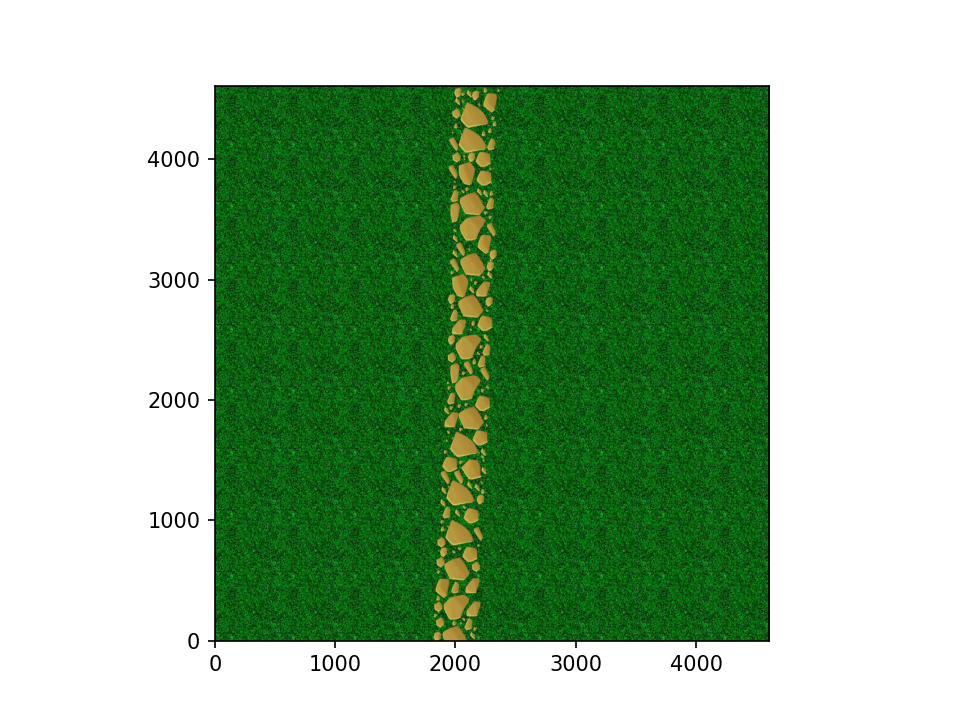
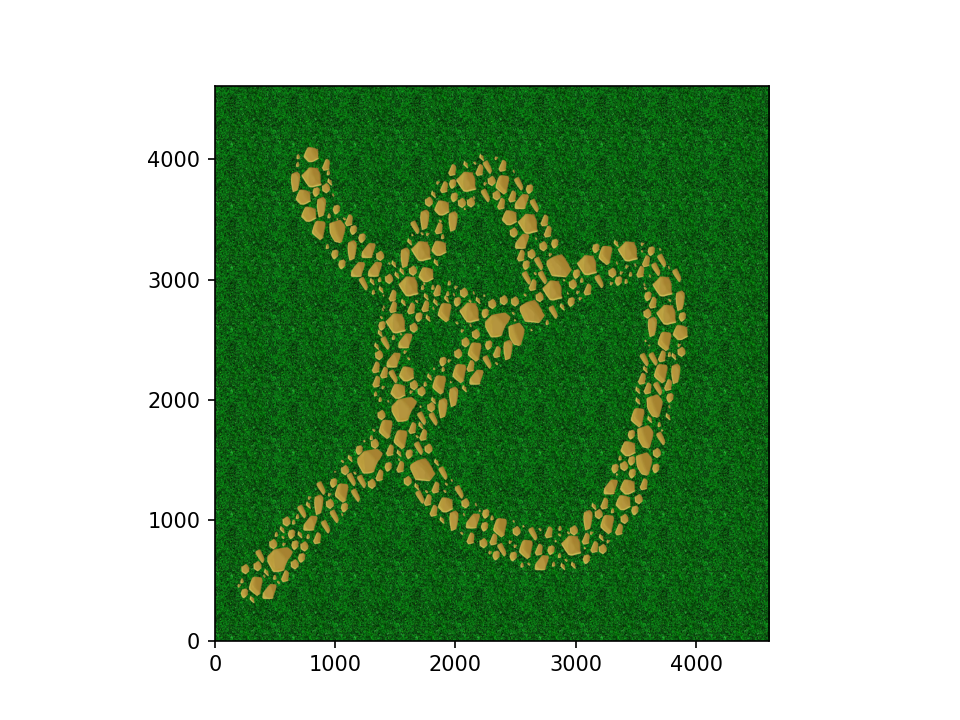
optimisation

Changed region(s): [[0.25, 0.1222, 0.7188, 0.8861]]

diff --git a/bin/plaquage/Interpolation.py b/bin/plaquage/Interpolation.py
@@ -2,9 +2,19 @@ import cv2
 import numpy as np
 import matplotlib.pyplot as plt
 from numpy.core.fromnumeric import shape 
-from scipy import interpolate,ndimage,sparse
+from scipy import interpolate,ndimage,sparse,stats
 
 def create_background(patch_background_elem,l,L):
+    """ Creer le background de taille l*L a partir du un patch de texture  
+
+    Args:
+        patch_background_elem (numpy.ndarray): patch de texture
+        l (int): taille en ligne
+        L (int): taille en colonne
+
+    Returns:
+        numpy.ndarray: l'environnement creer
+    """
     ###### Creation du background
     patch_colonne = np.copy(patch_background_elem)
     for i in range(L):
@@ -15,7 +25,18 @@ def create_background(patch_background_elem,l,L):
         environnement = np.concatenate((environnement,patch_colonne),axis=1)
     return environnement
 
-def selection_chemin(environnement,max_longeur_chemin):
+def selection_chemin(environnement,max_longeur_chemin=10):
+    """Selection interactif de points 
+
+    Args:
+        environnement (numpy.ndarray): background
+        max_longeur_chemin (int): taille maximal avant l'arret interactif
+
+    Returns:
+        List[Tuple[float,float]]: points-> points selectionner
+        Figure                  : fig -> figure 
+        SubplotBase             : ax -> ax de la figure 
+    """
     fig  = plt.figure(figsize=(13, 7), dpi=150)
     ax = plt.subplot(1,2,1)
     ax.set_title('Selection du chemin')
@@ -23,52 +44,81 @@ def selection_chemin(environnement,max_longeur_chemin):
     points = plt.ginput(max_longeur_chemin)   #Donnee Points
     return points,fig,ax
 
-def interpolation(points,nbPoint):
+def interpolation_Splines(points,nbPoint,k=2):
+    """Interpolation des points selon une Spline
+
+    Args:
+        points (List[tuple[float,float]]): List des points
+        nbPoint (int): nombre de points utilisé pour la spline
+        k (int) : ordre de la spline
+
+    Returns:
+        List[tuple[float,float]]: Points de la spline interpolé
+    """
     pointx = np.asarray(points)[:,0]
     pointy = np.asarray(points)[:,1]
     # Spline Parametrique (NbPoints > 4)
     Points_parametrisation = np.linspace(0, 1.01, nbPoint)
-    tck, u = interpolate.splprep([pointx, pointy],k=2)
+    tck, u = interpolate.splprep([pointx, pointy],k=k)
     chemin = interpolate.splev(Points_parametrisation, tck)
     return chemin
 
+def limite_changer(Chemin_lim,Cercle_index,l,L):
+    xlim_d      = Chemin_lim[0].start
+    xcercle_d   = Cercle_index[0].start
+    xlim_g      = Chemin_lim[0].stop
+    xcercle_g   = Cercle_index[0].stop
+    ylim_d      = Chemin_lim[1].start
+    ycercle_d   = Cercle_index[1].start
+    ylim_g      = Chemin_lim[1].stop
+    ycercle_g   = Cercle_index[1].stop
+    if (Chemin_lim[0].start < 0):
+        xcercle_d = -Chemin_lim[0].start
+        xlim_d = 0
+    if (Chemin_lim[0].stop >= l):
+        xcercle_g = Cercle_index[0].stop - (Chemin_lim[0].stop - (l-1))
+        xlim_g = l-1
+    if (Chemin_lim[1].start < 0):
+        ycercle_d = -Chemin_lim[1].start
+        ylim_d = 0
+    if (Chemin_lim[1].stop >= L):
+        ycercle_g = Cercle_index[1].stop - (Chemin_lim[1].stop - (L-1))
+        ylim_g = L-1
+    return tuple([slice(xlim_d,xlim_g,None),slice(ylim_d,ylim_g,None)]),tuple([slice(xcercle_d,xcercle_g,None),slice(ycercle_d,ycercle_g,None)])
+    
+
 def largeur_R_chemin(Taille_chemin,environnement,chemin):
+    """Creation d'un masque en fonction d'un chemin dans un environnemment
+
+    Args:
+        Taille_chemin (int): Taille du chemin voulue en pixels
+        environnement (numpy.ndarray): environnement :TODO -> juste mettre la taille
+        chemin (List[tuple[float,float]]): Points du chemin
+
+    Returns:
+        bsr_matrix: Masque contenant des 1 la où il y a le chemin et 0 sinon
+    """
     nbPoint = len(chemin[0])
-    x=np.arange(-Taille_chemin,Taille_chemin+1,1)
+    aleatoire = round(Taille_chemin)
+    x=np.arange(-aleatoire,aleatoire+1,1)
     X,Y = np.meshgrid(x,x)
-    cercle = ~(X*X+Y*Y < Taille_chemin*Taille_chemin)
+    # Forme autour du points à appliquer
+    cercle = ~(X*X+Y*Y < aleatoire*aleatoire)
     cercle = cercle.astype(int)
-    cercle3 = np.zeros((2*Taille_chemin+1,2*Taille_chemin+1,3))
-    cercle3[:,:,0] = cercle
-    cercle3[:,:,1] = cercle
-    cercle3[:,:,2] = cercle
+    #Limite
     [maskl,maskL,_] = environnement.shape
+    
     mask = np.ones((maskl,maskL))
     for i in range(nbPoint):
+
         yc = round(chemin[0][i])
         xc = round(chemin[1][i])
         
         # Verification limite
-        xlimite_d = xc-Taille_chemin
-        xlimite_g = xc+Taille_chemin+1
-        ylimite_d = yc-Taille_chemin
-        ylimite_g = yc+Taille_chemin+1
-        xcercle_d = 0
-        xcercle_g = 2*Taille_chemin+1
-        ycercle_d = 0
-        ycercle_g = 2*Taille_chemin+1
-        if (xc-Taille_chemin < 0):
-            xlimite_d = 0
-            xcercle_d = Taille_chemin-xc
-        if (xc+Taille_chemin+1 >= maskl):
-            xlimite_g = maskl-1
-            xcercle_g = 2*Taille_chemin - (xc+Taille_chemin+1 - maskl)
-        if (yc-Taille_chemin < 0):
-            ylimite_d = 0
-            ycercle_d = Taille_chemin-yc
-        if (yc+Taille_chemin+1 >= maskL):
-            ylimite_g = maskL-1
-            ycercle_g = 2*Taille_chemin - (yc+Taille_chemin+1 - maskL)
-        mask[xlimite_d:xlimite_g,ylimite_d:ylimite_g]=mask[xlimite_d:xlimite_g,ylimite_d:ylimite_g]*cercle[xcercle_d:xcercle_g,ycercle_d:ycercle_g]     
+        Chemin_lim = [slice(xc-aleatoire,xc+aleatoire+1,None),slice(yc-aleatoire,yc+aleatoire+1,None)]
+        Cercle_index = [slice(0,2*aleatoire+1),slice(0,2*aleatoire+1)]
+        Chemin_lim,Cercle_index = limite_changer(Chemin_lim,Cercle_index,maskl,maskL)
+        # Multiplication par le mask
+        mask[Chemin_lim]=mask[Chemin_lim]*cercle[Cercle_index]     
     mask_bsr = sparse.bsr_matrix(mask)
     return mask_bsr

diff --git a/bin/placementPierre.py b/bin/placementPierre.py
@@ -6,6 +6,7 @@ from scipy import interpolate,ndimage,misc,sparse,stats
 from math import inf,sqrt
 import skfmm
 import time
+from plaquage.Interpolation import limite_changer
 
 ### Retour graphique
 def update(ax1,ax2,ax3,ax4,ax5,mask_array,environnement,densite_graph,sorted_point,nb_iter):
@@ -38,6 +39,7 @@ def update(ax1,ax2,ax3,ax4,ax5,mask_array,environnement,densite_graph,sorted_poi
     im5 = ax5.plot(nb_iter,densite_graph)
     plt.pause(0.1)
 
+Taille_chemin = 200
 
 ### Importation des données
 image = np.load("arraySave/image.npy")
@@ -103,37 +105,20 @@ while not stop:
 
         ## Dimension pierre
         [l_pierre,L_pierre] = mask_pierre.shape
-        xmin = i[0]-int(l_pierre/2)
-        xmax = i[0]+int(l_pierre/2+0.5)
-        ymin = i[1]-int(L_pierre/2)
-        ymax = i[1]+int(L_pierre/2+0.5)
-        xpmin = 0
-        xpmax = l_pierre
-        ypmin = 0
-        ypmax = L_pierre
-        if xmin < 0:
-            xpmin = -xmin
-            xmin = 0
-        if xmax >= maskl:
-            xpmax = l_pierre-1 - (xmax - maskl)
-            xmax = maskl-1
-        if ymin < 0:
-            ypmin = -ymin
-            ymin = 0
-        if ymax  >= maskL:
-            ypmax = L_pierre-1 - (ymax - maskL)
-            ymax = maskL-1
-
+        limite = [slice(i[0]-int(l_pierre/2),i[0]+int(l_pierre/2+0.5),None),slice(i[1]-int(L_pierre/2),i[1]+int(L_pierre/2+0.5))]
+        pierre_limite = [slice(0,l_pierre,None),slice(0,L_pierre,None)]
+        limite,pierre_limite = limite_changer(limite,pierre_limite,maskl,maskL)
         ## Verification chevauchement pierre
-        diff_mask = mask_array[xmin:xmax,ymin:ymax]-mask_pierre[xpmin:xpmax,ypmin:ypmax]
+        diff_mask = mask_array[limite]-mask_pierre[pierre_limite]
         if diff_mask.min() >= 0:
         ### Incrustation pierre
-            for i in range(3):
-                environnement[xmin:xmax,ymin:ymax,i]=environnement[xmin:xmax,ymin:ymax,i]*(-mask_pierre[xpmin:xpmax,ypmin:ypmax]+1)
-            environnement[xmin:xmax,ymin:ymax]= environnement[xmin:xmax,ymin:ymax]+pierre[xpmin:xpmax,ypmin:ypmax]
-
+            for j in range(3):
+                environnement[limite[0],limite[1],j]=environnement[limite[0],limite[1],j]*(-mask_pierre[pierre_limite]+1)
+            environnement[limite]= environnement[limite]+pierre[pierre_limite]
             ## Maj masque
-            mask_array[xmin:xmax,ymin:ymax] = mask_array[xmin:xmax,ymin:ymax]*(-mask_pierre[xpmin:xpmax,ypmin:ypmax]+1)
+            mask_array[limite] = mask_array[limite]*(-mask_pierre[pierre_limite]+1)
+            limite2 = tuple([slice(max(i[0]-int((l_pierre+Taille_chemin)/2),0),min(i[0]+int((l_pierre+Taille_chemin)/2+0.5),maskl),None),slice(min(i[1]-int((L_pierre+Taille_chemin)/2),0),max(i[1]+int((L_pierre+Taille_chemin)/2+0.5),maskL))])
+            res[limite2] = skfmm.distance(mask_array[limite2],dx=1)
             densite_k = densite_k-ListeTaillePierre[num_pierre]
         else:
             echec = echec+1
@@ -154,7 +139,7 @@ while not stop:
     sorted_point = np.unravel_index(sort[0:int(pas):int(pas/nb_pierre_pass)],res.shape)
     update(ax1,ax2,ax3,ax4,ax5,mask_array,environnement,densite_graph,sorted_point,nb_iter)
     if nb_pierre_pass-echec != 0:
-        res = skfmm.distance(mask_array,dx=1)
+        #res = skfmm.distance(mask_array,dx=1)
         sort = np.argsort(-res,axis=None)
         index = np.unravel_index(sort[0:int(pas):int(pas/nb_pierre_pass)], res.shape)
         index = np.array(index).transpose()

diff --git a/bin/Interpolation.py b/bin/Interpolation.py
@@ -4,7 +4,7 @@ import matplotlib.pyplot as plt
 from numpy.core.fromnumeric import shape 
 from scipy import interpolate,ndimage,sparse
 
-from plaquage.Interpolation import create_background,selection_chemin,interpolation,largeur_R_chemin
+from plaquage.Interpolation import create_background,selection_chemin,interpolation_Splines,largeur_R_chemin
 ## Reference du background
 patch_background_elem = cv2.imread("../Textures/freeTexture2.png")
 patch_background_elem = cv2.cvtColor(patch_background_elem, cv2.COLOR_BGR2RGB)
@@ -12,13 +12,13 @@ Taille_chemin = 200
 L = 8 #Largeur
 l = 8 #Longeur
 max_longeur_chemin = 20
-nbPoint = 50
+nbPoint = 200
 ######## Taille de patch de background ########
 environnement = create_background(patch_background_elem,l,L)
 ###### Selection des points
 points,fig,ax = selection_chemin(environnement,max_longeur_chemin)
 ###### Interpolation du chemin 
-chemin = interpolation(points,nbPoint)
+chemin = interpolation_Splines(points,nbPoint)
 ###### Creation Mask
 mask_bsr = largeur_R_chemin(Taille_chemin,environnement,chemin)
 sparse.save_npz("arraySave/MaskChemin",mask_bsr)
